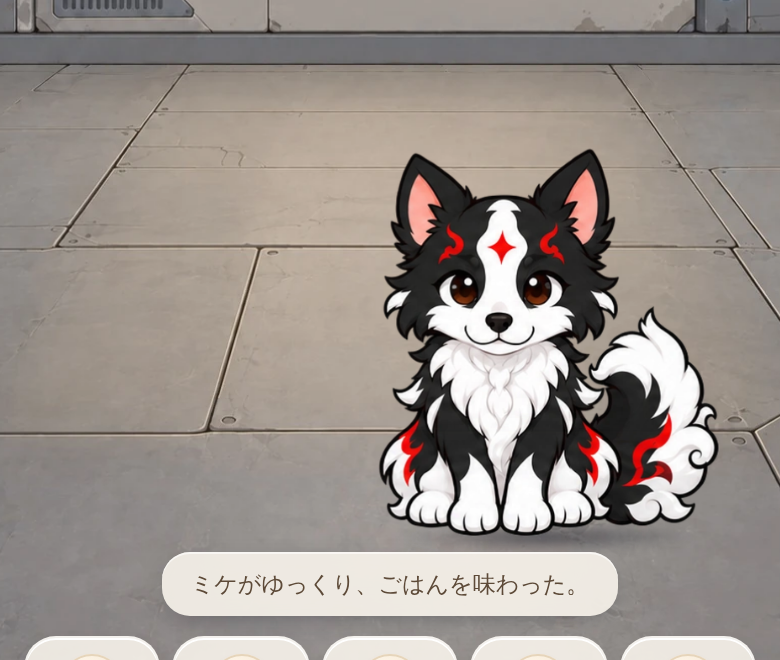
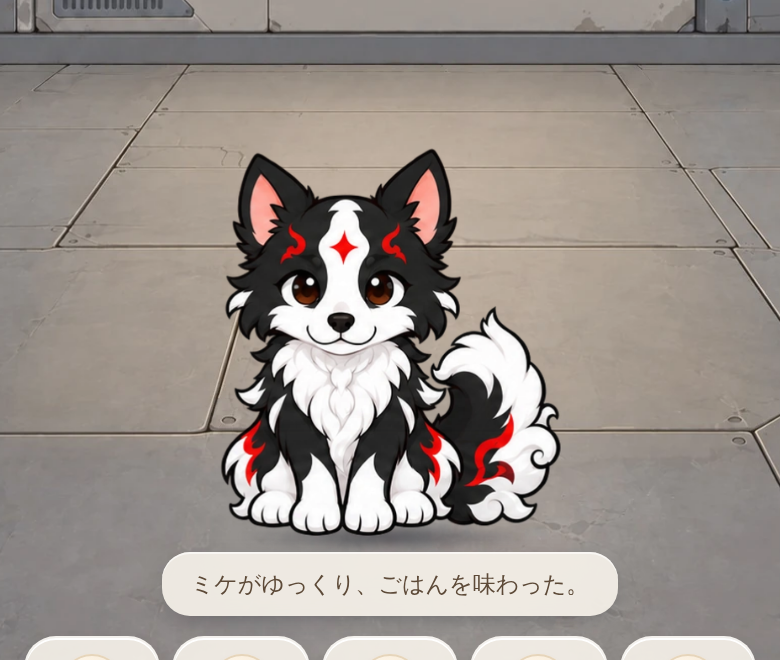
Pets: shorter action crossfade, docs

Changed region(s): [[0.2769, 0.2121, 0.9231, 0.8485]]

diff --git a/src/render/pet-sprite.ts b/src/render/pet-sprite.ts
@@ -30,7 +30,7 @@ type Frame = { frame: string; page: number; durationMs: number };
 type Manifest = { origin: [number, number]; characters: Record<string, { pages: number; actions: Record<string, Frame[]> }> };
 
 const SIZE = 768;
-const FADE_MS = 110;       // 動作が切り替わるときの溶かし時間
+const FADE_MS = 70;        // 動作が切り替わるときの溶かし時間
 
 /** 動作ごとの見せ方：コマとコマの間を溶かす割合と上限(ms)。歩き・睡眠はなめらかに、瞬きなど短いコマはほとんど溶かさない */
 const BLEND: Record<string, { frac: number; max: number }> = {

diff --git a/docs/pets-v2.md b/docs/pets-v2.md
@@ -20,6 +20,13 @@
 - 歩き：床をタップするとそこへ歩く／待機中に自動で歩く／ごはんで中央の器へ歩く。歩きのコマは体が枠内で動かない（重心の揺れ 3〜10px）ので、箱を段階ごとの速さで動かして足が滑りにくいようにした（赤ちゃん 90・中間 120・成体 150 px/秒。目での調整は未実施）。
 - 導入：選択画面の犬・猫は赤ちゃん。犬は近づいて（歩き）、猫は身を引く（歩き）。
 
+## 見た目の調整（2026-10-05、ユーザー指摘：歩行時の大きさ・待機の首かしげ・滑らかさ）
+- **歩行時の大きさ**：歩きのコマは待機のコマより小さく描かれている（額の紋様の高さの中央値で、歩き／待機 ≒ 猫 0.67〜0.72、犬 0.5〜0.8）。歩きのときだけ、足元を支点に拡大して頭の大きさを揃えた（猫 1.45／1.4／1.35、犬 1.45／1.3／1.4）。比較画像で目視確認。
+- **待機の首かしげ**：素材の待機には頭を大きく傾けるコマ（idle/04〜06、ほか 01 も頭の位置がずれる）がある。使うのは通常の顔（00）と瞬き（02・03）だけにし、2.6 秒・1.7 秒…の間隔で瞬きを繰り返す。生き物らしさは、呼吸（足元を支点にしたごく小さな伸び縮み）と微かな揺れで補う。
+- **滑らかさ**：コマ送り（歩きは 8 コマ・約 7.7 コマ/秒）がカクついて見えるため、隣り合う 2 コマを加算合成で溶かすようにした（歩き：各コマの後半 55%・最大 80ms、他は 50%・最大 90ms）。標準の ADD は不透明度の二乗で足して半透明になるため、`gl.ONE, gl.ONE` の加算を登録して使用。体の中心は不透明のまま、足・しっぽの位置の差だけが溶ける（溶けている間は脚が薄く二重に見える）。動作の切り替えは 70ms の溶かし。
+- **歩く速さ**：歩きのコマで接地している足の後ろ向きの移動量から測った値に変更（拡大後の px/秒：猫 89/94/130、犬 89/115/183）。
+- 未確認：実機での動きの感じ（特に歩きの足の滑り、溶かしの二重像の目立ち方）。
+
 ## 確認範囲
 - 実行確認（Chromium・390×844・2倍）：6 体すべての起動、猫・犬（成体）の歩き（左右）・なでる・ごはん・水飲み・遊び・睡眠・元気なし、導入の全場面、ページエラーなし。素材の整合は `tests/pets-assets.test.ts`。
 - 静止画の連続で見ただけで、動きの滑らかさ・足の滑りは実機で未確認。
